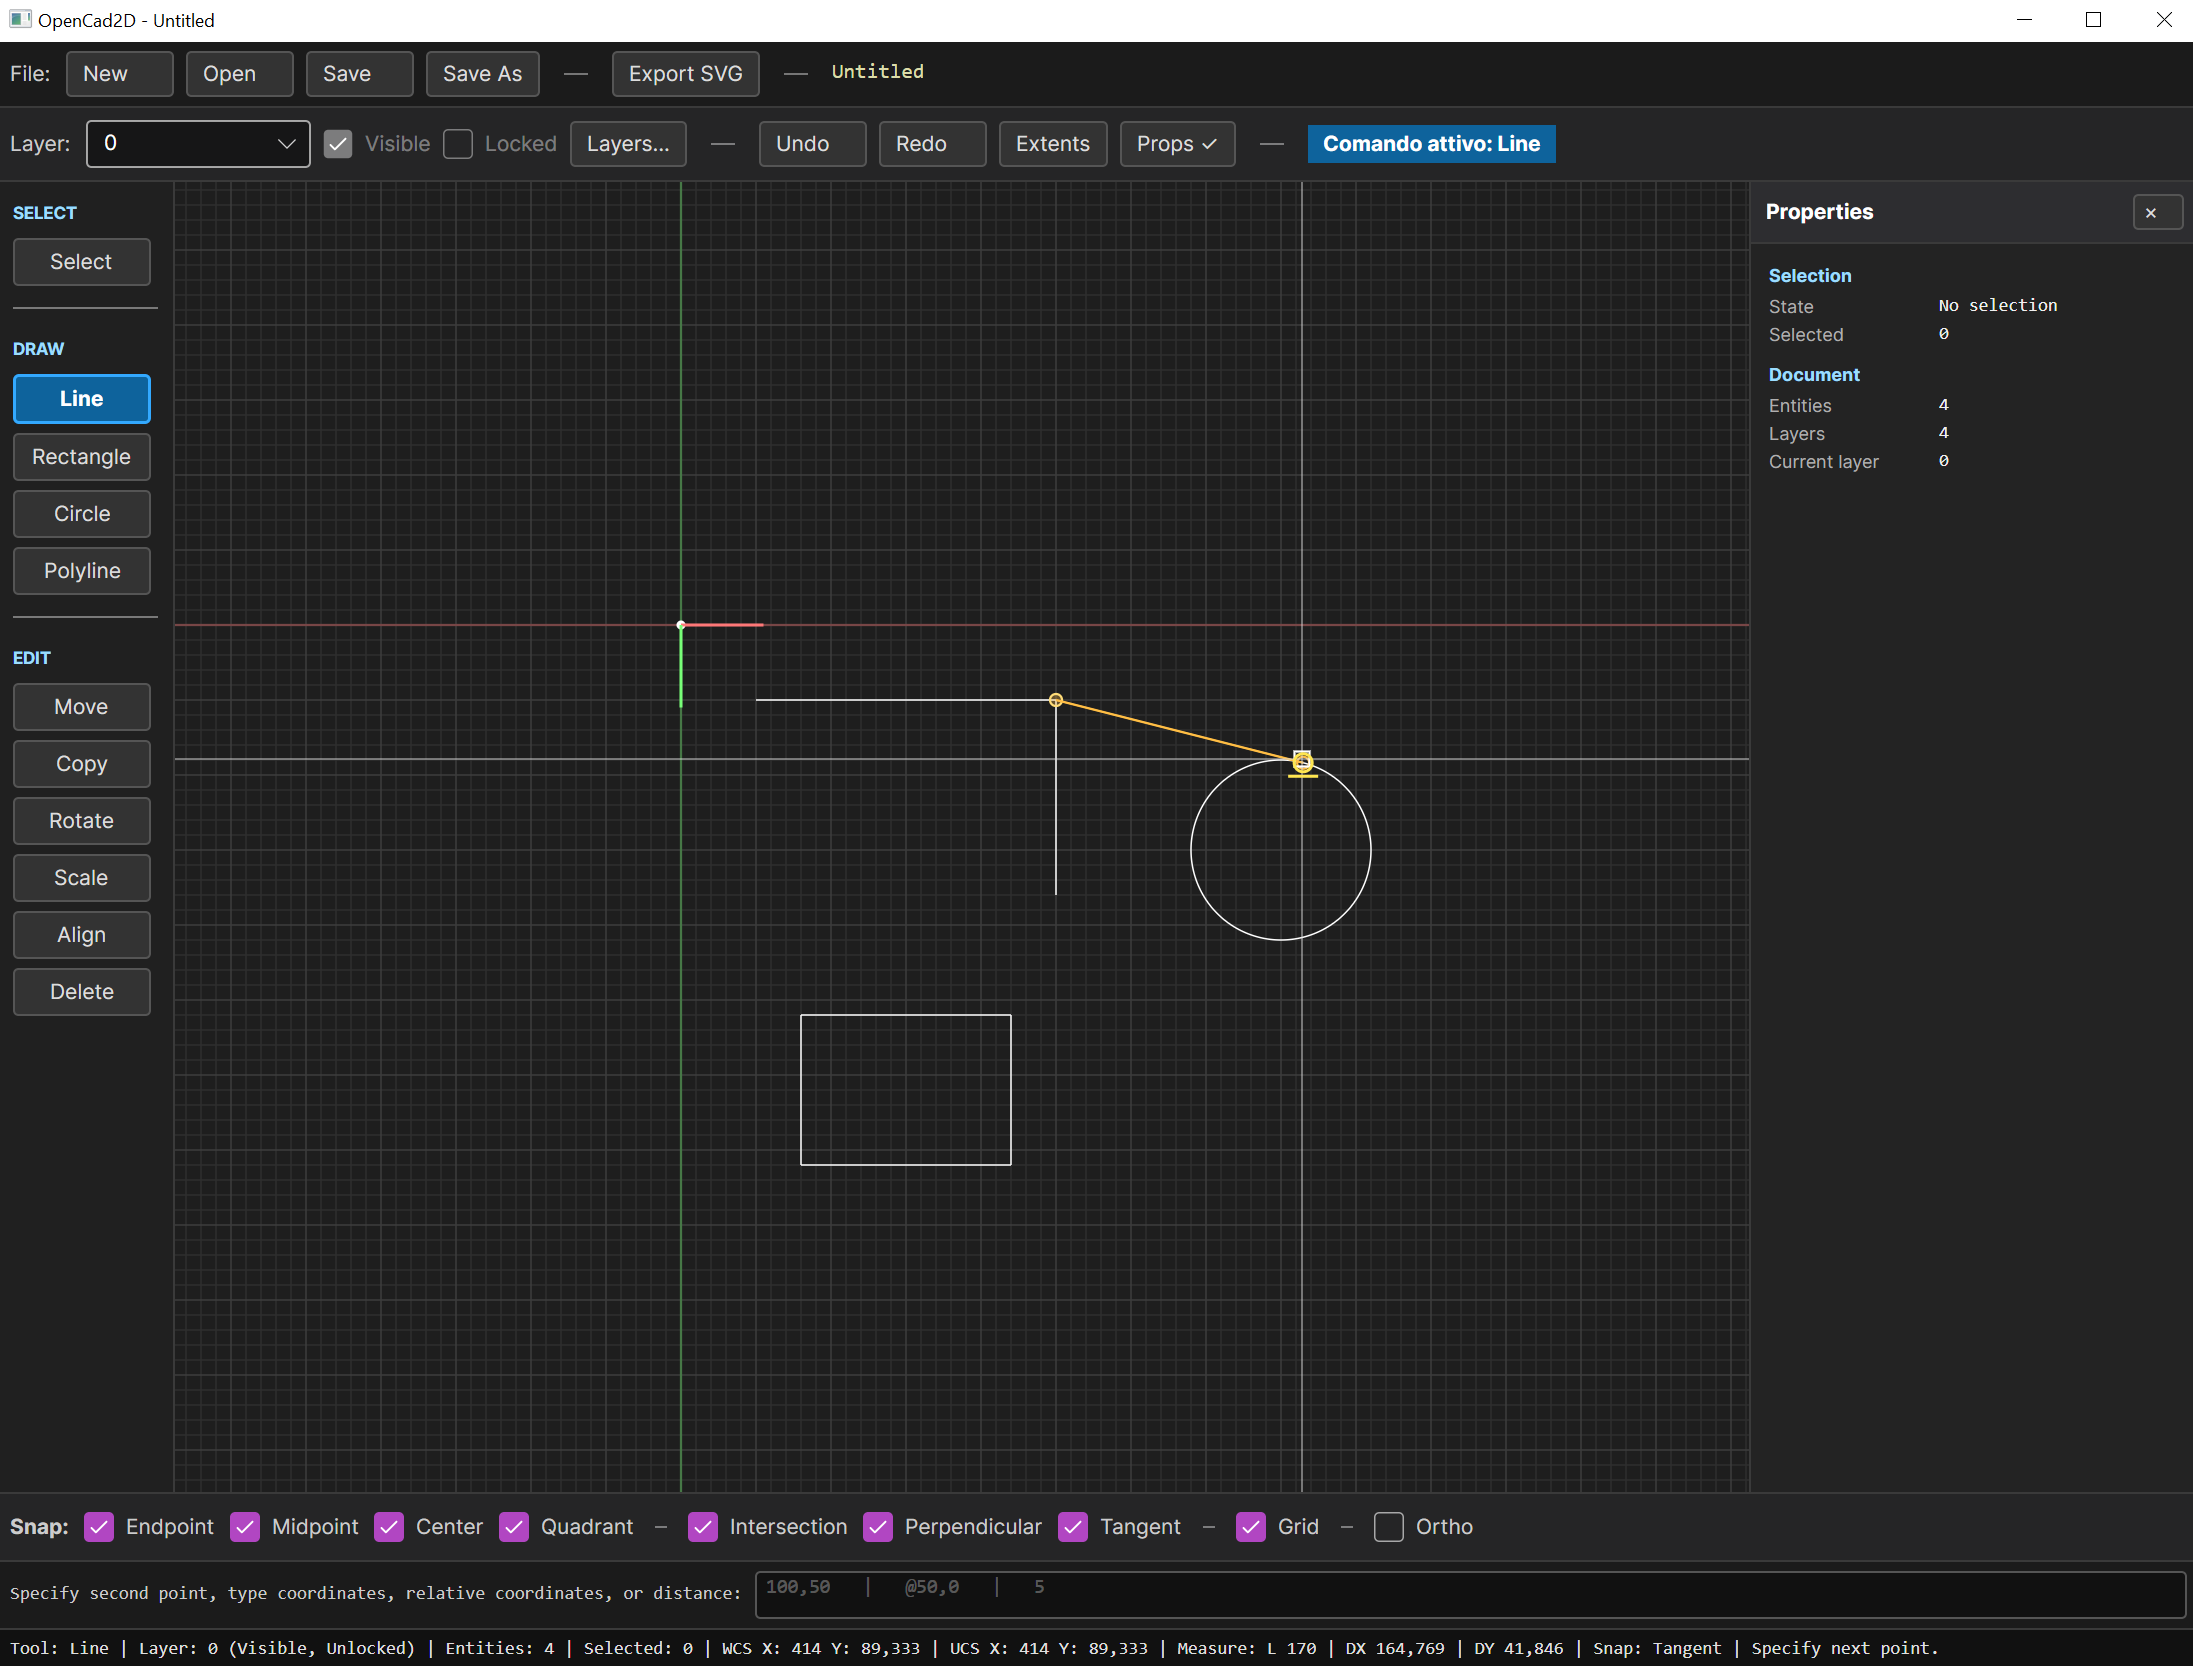
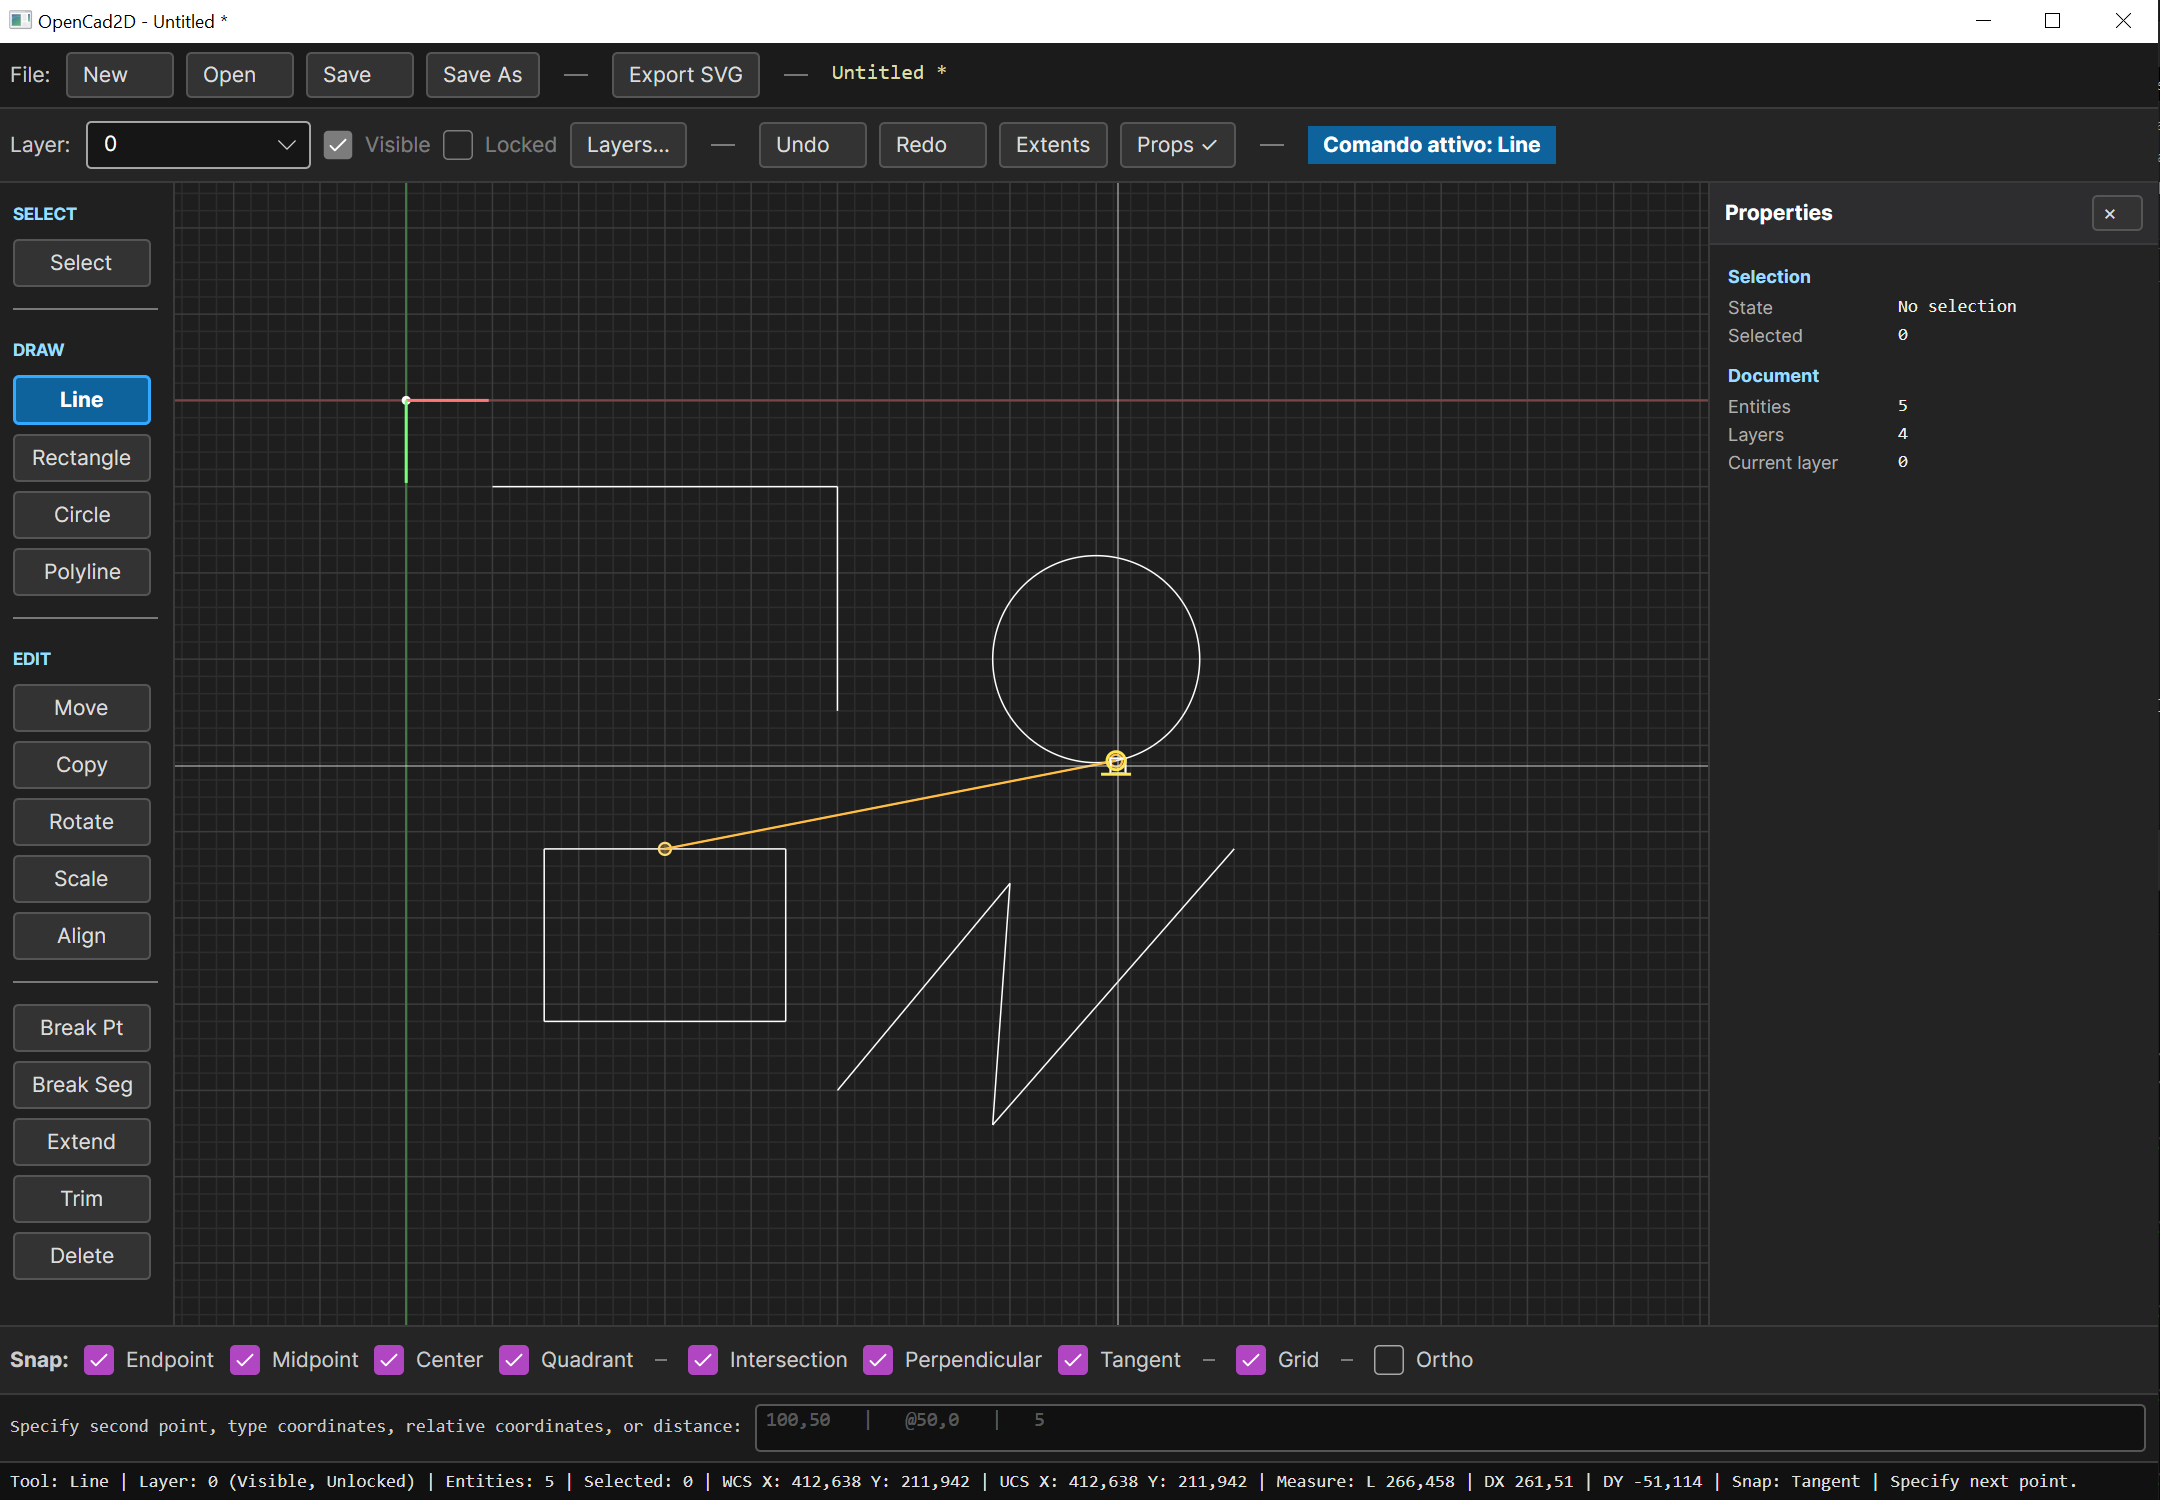
fix menu

diff --git a/src/OpenCad2D.App/MainWindow.axaml.cs b/src/OpenCad2D.App/MainWindow.axaml.cs
@@ -580,6 +580,50 @@ public partial class MainWindow : Window
         CadCanvas.ClearSnapMarker();
     }
 
+    private void BreakAtPoint_Click(
+        object? sender,
+        RoutedEventArgs e)
+    {
+        _viewModel.SetTool(ToolId.BreakAtPoint);
+
+        RefreshStatus();
+
+        CadCanvas.ClearSnapMarker();
+    }
+
+    private void BreakBetweenPoints_Click(
+        object? sender,
+        RoutedEventArgs e)
+    {
+        _viewModel.SetTool(ToolId.BreakBetweenPoints);
+
+        RefreshStatus();
+
+        CadCanvas.ClearSnapMarker();
+    }
+
+    private void Extend_Click(
+        object? sender,
+        RoutedEventArgs e)
+    {
+        _viewModel.SetTool(ToolId.Extend);
+
+        RefreshStatus();
+
+        CadCanvas.ClearSnapMarker();
+    }
+
+    private void Trim_Click(
+        object? sender,
+        RoutedEventArgs e)
+    {
+        _viewModel.SetTool(ToolId.Trim);
+
+        RefreshStatus();
+
+        CadCanvas.ClearSnapMarker();
+    }
+
     private void Delete_Click(
         object? sender,
         RoutedEventArgs e)
@@ -1164,6 +1208,24 @@ public partial class MainWindow : Window
         SetActiveToolButton(
             AlignButton,
             activeToolName.Equals("Align", StringComparison.OrdinalIgnoreCase));
+
+        SetActiveToolButton(
+            BreakAtPointButton,
+            activeToolName.Equals("BreakAtPoint", StringComparison.OrdinalIgnoreCase) ||
+            activeToolName.Equals("Break Point", StringComparison.OrdinalIgnoreCase));
+
+        SetActiveToolButton(
+            BreakBetweenPointsButton,
+            activeToolName.Equals("BreakBetweenPoints", StringComparison.OrdinalIgnoreCase) ||
+            activeToolName.Equals("Break Segment", StringComparison.OrdinalIgnoreCase));
+
+        SetActiveToolButton(
+            ExtendButton,
+            activeToolName.Equals("Extend", StringComparison.OrdinalIgnoreCase));
+
+        SetActiveToolButton(
+            TrimButton,
+            activeToolName.Equals("Trim", StringComparison.OrdinalIgnoreCase));
 
         ActiveCommandTextBlock.Text = $"Comando attivo: {activeToolName}";
     }
